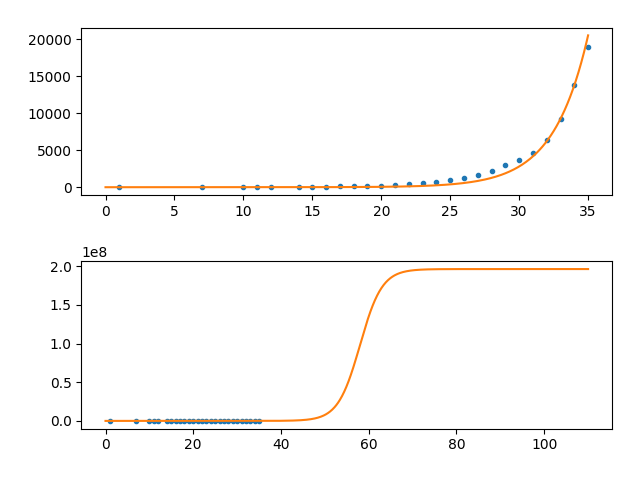
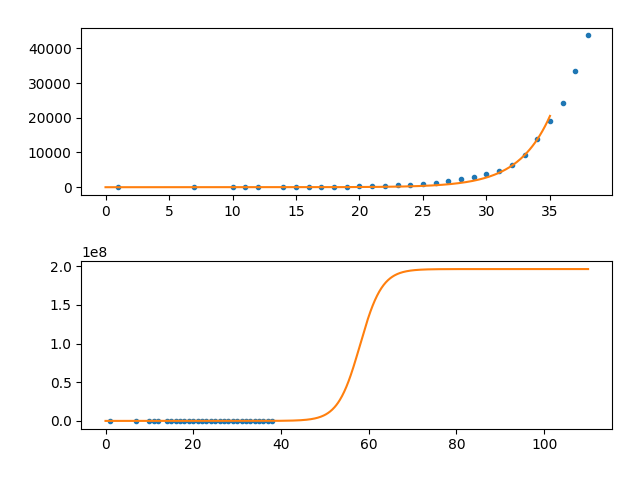
new day

diff --git a/plot_34.py b/plot_34.py
@@ -13,9 +13,9 @@ def res(param, x, y):
     return fun(param, x) - y
 
 if __name__ == "__main__":
-    df = read_csv('data.csv')
+    df = read_csv('data.csv').query('day<35')
     x0_low = np.array([2.00000020e+05, 3.86868186e-01, 4.17216896e+01])
-    x0_high = np.array([4.00000020e+06, 2.86868186e-01, 5.17216896e+01])
+    x0_high = np.array([4.370000020e+06, 2.86868186e-01, 5.17216896e+01])
     inp = [x0_low, x0_high]
 
     for i in range(2):
@@ -46,4 +46,4 @@ if __name__ == "__main__":
         plt.plot(Xrange, np.array(ypred), '-')
 
         plt.tight_layout(pad=2.0)
-        pl.savefig(f'corona_{i}.png')
+        pl.savefig(f'corona_init_{i}.png')
